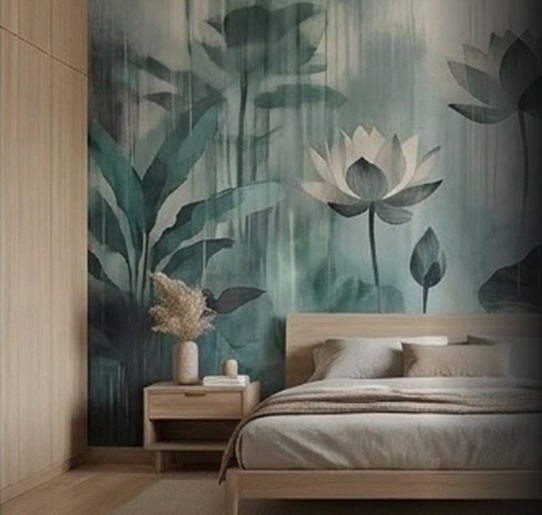
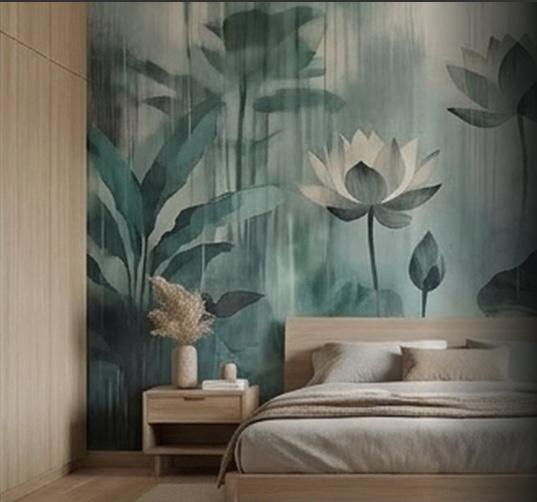
fix(collection): update plate 211 with user screenshot and delete plates 212 to 215

diff --git a/collection.html b/collection.html
@@ -6,17 +6,17 @@
   <title>The Collection — Wall Jewels Wallpaper World · Chennai, Since 1978</title>
   <!-- Favicon & Brand Icons (Embedded Data URI + Multi-Format Fallbacks) -->
[1 lines of base64/hex data omitted]
-  <link rel="icon" type="image/png" sizes="32x32" href="favicon-32x32.png?v=v1787911749753">
-  <link rel="icon" type="image/png" sizes="16x16" href="favicon-16x16.png?v=v1787911749753">
-  <link rel="shortcut icon" type="image/x-icon" href="favicon.ico?v=v1787911749753">
-  <link rel="apple-touch-icon" sizes="180x180" href="apple-touch-icon.png?v=v1787911749753">
-  <link rel="manifest" href="site.webmanifest?v=v1787911749753">
-  <meta name="description" content="Browse the Wall Jewels collections — Kala Parampara and Kala Rasa. 226 master plates of authentic heritage, botanical, abstract and world designs, printable to your wall's exact measure.">
+  <link rel="icon" type="image/png" sizes="32x32" href="favicon-32x32.png?v=v1787912206296">
+  <link rel="icon" type="image/png" sizes="16x16" href="favicon-16x16.png?v=v1787912206296">
+  <link rel="shortcut icon" type="image/x-icon" href="favicon.ico?v=v1787912206296">
+  <link rel="apple-touch-icon" sizes="180x180" href="apple-touch-icon.png?v=v1787912206296">
+  <link rel="manifest" href="site.webmanifest?v=v1787912206296">
+  <meta name="description" content="Browse the Wall Jewels collections — Kala Parampara and Kala Rasa. 222 master plates of authentic heritage, botanical, abstract and world designs, printable to your wall's exact measure.">
   <link rel="canonical" href="https://www.walljewels.in/collection.html">
   <meta name="theme-color" content="#0b0d11">
   <link rel="preload" href="assets/fonts/marcellus-latin.woff2" as="font" type="font/woff2" crossorigin>
   <link rel="preload" href="assets/fonts/jost-latin.woff2" as="font" type="font/woff2" crossorigin>
-  <link rel="stylesheet" href="assets/css/styles.css?v=v1787911749753">
+  <link rel="stylesheet" href="assets/css/styles.css?v=v1787912206296">
   <style id="coll-exact-styles">
     body.page-collection {
       --frame: 0px !important;
@@ -207,7 +207,7 @@
       </button>
     </div>
     <div class="drawer__nav">
-      <a href="collection.html">Collection <span class="num">226 plates</span></a>
+      <a href="collection.html">Collection <span class="num">222 plates</span></a>
       <a href="index.html#visualiser">Custom Printing <span class="num">Your wall</span></a>
       <a href="index.html#record">Our Work <span class="num">Since 1978</span></a>
       <a href="index.html#why">The House</a>
@@ -225,7 +225,7 @@
       <div class="coll-hero__content">
         <div class="headgroup">
           <h1 class="d2">The collection</h1>
-          <p class="lead">226 master plates from the Wall Jewels volumes — every one recomposed, recoloured
+          <p class="lead">222 master plates from the Wall Jewels volumes — every one recomposed, recoloured
             and printed to your wall's exact measure. No prices here by design: a wall deserves a conversation,
             and the conversation is free.</p>
         </div>
@@ -239,7 +239,7 @@
           <button class="fchip" type="button" data-filter="v:kala-parampara" aria-pressed="false"><span class="mark"></span>Kala Parampara</button>
           <button class="fchip" type="button" data-filter="v:kala-rasa" aria-pressed="false"><span class="mark"></span>Kala Rasa</button>
         </div>
-        <span class="coll-count" data-coll-count>226 designs</span>
+        <span class="coll-count" data-coll-count>222 designs</span>
       </div>
       <div class="coll-filters__row coll-filters__row--all">
         <button class="fchip" type="button" data-filter="c:heritage" aria-pressed="false"><span class="mark"></span>Sanatan & Heritage</button>
@@ -5110,98 +5110,6 @@
               </div>
             </div>
           </article>
-          <article class="plate" id="kr-plate-171" data-slug="kr-plate-171" data-vol="Kala Rasa" data-code="WJWP-MOD-012" data-sub="Kala Rasa · Painterly Contemporary" data-desc="Dining Rooms, Lounges A richly layered, painterly masterpiece capturing the intensity of Southern offeringabold, texturalstatementwall withimmensedepth">
-            <div class="plate__media">
-              <img src="assets/img/collection/kala-rasa/kr-plate-171.jpg" alt="Monsoon Bloom The Drenched Canopy — WJWP-MOD-012" loading="lazy">
-              
-            </div>
-            <div class="plate__body">
-              <p class="plate__vol">Kala Rasa · WJWP-MOD-012</p>
-              <h3 class="plate__name">Monsoon Bloom The Drenched Canopy</h3>
-              <p class="plate__sub" style="font-size:0.82rem; color:var(--c-gold,#c89d5c); margin-top:-2px; margin-bottom:6px; font-weight:500;">Kala Rasa · Painterly Contemporary</p>
-              <p class="plate__blurb">Dining Rooms, Lounges A richly layered, painterly masterpiece capturing the intensity of Southern offeringabold, texturalstatementwall withimmensedepth</p>
-              <div class="plate__row">
-                <a class="plate__view" href="https://wa.me/919677042903?text=Namaste%20Wall%20Jewels%20%E2%80%94%20I'd%20like%20to%20enquire%20about%20%22Monsoon%20Bloom%20The%20Drenched%20Canopy%22%20(WJWP-MOD-012)." rel="noopener">Enquire</a>
-                <span style="display:flex; gap:2px">
-                  <button class="wish" type="button" data-slug="kr-plate-171" aria-label="Mark Monsoon Bloom The Drenched Canopy on your wishlist" aria-pressed="false">
-                    <svg viewBox="0 0 22 22" aria-hidden="true"><circle class="ring" cx="11" cy="11" r="7"/><circle class="core" cx="11" cy="11" r="3"/></svg>
-                  </button>
-                  <button class="wish" type="button" data-add-basket="kr-plate-171" aria-label="Add Monsoon Bloom The Drenched Canopy to your enquiry docket">
-                    <svg viewBox="0 0 22 22" fill="none" aria-hidden="true"><path d="M11 4 V18 M4 11 H18" stroke="currentColor" stroke-width="1.5" stroke-linecap="round"/></svg>
-                  </button>
-                </span>
-              </div>
-            </div>
-          </article>
-          <article class="plate" id="kr-plate-172" data-slug="kr-plate-172" data-vol="Kala Rasa" data-code="WJWP-MOD-013" data-sub="Kala Rasa · Modern Cobur Field" data-desc="Double-Height Walls, Grand Entrances An abstract colburfield composition inspired bythe intense warmthand warmaspace, wrappingtheroom inanendlesssunset AVA LBLE">
-            <div class="plate__media">
-              <img src="assets/img/collection/kala-rasa/kr-plate-172.jpg" alt="Southern Sun Radiance Abstracted — WJWP-MOD-013" loading="lazy">
-              
-            </div>
-            <div class="plate__body">
-              <p class="plate__vol">Kala Rasa · WJWP-MOD-013</p>
-              <h3 class="plate__name">Southern Sun Radiance Abstracted</h3>
-              <p class="plate__sub" style="font-size:0.82rem; color:var(--c-gold,#c89d5c); margin-top:-2px; margin-bottom:6px; font-weight:500;">Kala Rasa · Modern Cobur Field</p>
-              <p class="plate__blurb">Double-Height Walls, Grand Entrances An abstract colburfield composition inspired bythe intense warmthand warmaspace, wrappingtheroom inanendlesssunset AVA LBLE</p>
-              <div class="plate__row">
-                <a class="plate__view" href="https://wa.me/919677042903?text=Namaste%20Wall%20Jewels%20%E2%80%94%20I'd%20like%20to%20enquire%20about%20%22Southern%20Sun%20Radiance%20Abstracted%22%20(WJWP-MOD-013)." rel="noopener">Enquire</a>
-                <span style="display:flex; gap:2px">
-                  <button class="wish" type="button" data-slug="kr-plate-172" aria-label="Mark Southern Sun Radiance Abstracted on your wishlist" aria-pressed="false">
-                    <svg viewBox="0 0 22 22" aria-hidden="true"><circle class="ring" cx="11" cy="11" r="7"/><circle class="core" cx="11" cy="11" r="3"/></svg>
-                  </button>
-                  <button class="wish" type="button" data-add-basket="kr-plate-172" aria-label="Add Southern Sun Radiance Abstracted to your enquiry docket">
-                    <svg viewBox="0 0 22 22" fill="none" aria-hidden="true"><path d="M11 4 V18 M4 11 H18" stroke="currentColor" stroke-width="1.5" stroke-linecap="round"/></svg>
-                  </button>
-                </span>
-              </div>
-            </div>
-          </article>
-          <article class="plate" id="kr-plate-173" data-slug="kr-plate-173" data-vol="Kala Rasa" data-code="WJWP-MOD-014" data-sub="Kala Rasa · Minimal Architectural Art" data-desc="Libraries, Executive Suites Minimalist forms inspired by heavy sandstone architecture caught in harsh and stark, brightgeometrytocreatestructural illusions.">
-            <div class="plate__media">
-              <img src="assets/img/collection/kala-rasa/kr-plate-173.jpg" alt="Sun and Stone Carved by Light — WJWP-MOD-014" loading="lazy">
-              
-            </div>
-            <div class="plate__body">
-              <p class="plate__vol">Kala Rasa · WJWP-MOD-014</p>
-              <h3 class="plate__name">Sun and Stone Carved by Light</h3>
-              <p class="plate__sub" style="font-size:0.82rem; color:var(--c-gold,#c89d5c); margin-top:-2px; margin-bottom:6px; font-weight:500;">Kala Rasa · Minimal Architectural Art</p>
-              <p class="plate__blurb">Libraries, Executive Suites Minimalist forms inspired by heavy sandstone architecture caught in harsh and stark, brightgeometrytocreatestructural illusions.</p>
-              <div class="plate__row">
-                <a class="plate__view" href="https://wa.me/919677042903?text=Namaste%20Wall%20Jewels%20%E2%80%94%20I'd%20like%20to%20enquire%20about%20%22Sun%20and%20Stone%20Carved%20by%20Light%22%20(WJWP-MOD-014)." rel="noopener">Enquire</a>
-                <span style="display:flex; gap:2px">
-                  <button class="wish" type="button" data-slug="kr-plate-173" aria-label="Mark Sun and Stone Carved by Light on your wishlist" aria-pressed="false">
-                    <svg viewBox="0 0 22 22" aria-hidden="true"><circle class="ring" cx="11" cy="11" r="7"/><circle class="core" cx="11" cy="11" r="3"/></svg>
-                  </button>
-                  <button class="wish" type="button" data-add-basket="kr-plate-173" aria-label="Add Sun and Stone Carved by Light to your enquiry docket">
-                    <svg viewBox="0 0 22 22" fill="none" aria-hidden="true"><path d="M11 4 V18 M4 11 H18" stroke="currentColor" stroke-width="1.5" stroke-linecap="round"/></svg>
-                  </button>
-                </span>
-              </div>
-            </div>
-          </article>
-          <article class="plate" id="kr-plate-174" data-slug="kr-plate-174" data-vol="Kala Rasa" data-code="WJWP-MOD-015" data-sub="Kala Rasa · Contemporary Botanical" data-desc="Coastal Homes, Modern Lounges The iconic coconut palm is radically stylised into an elegant, flowing graphic form Stripped of literal realism, thefronds become sweeping, rhythmic vectors thatguide theeye upward, elevatingthe ceiling height">
-            <div class="plate__media">
-              <img src="assets/img/collection/kala-rasa/kr-plate-174.jpg" alt="Coconut Palm Symphony Frondsin Flux — WJWP-MOD-015" loading="lazy">
-              
-            </div>
-            <div class="plate__body">
-              <p class="plate__vol">Kala Rasa · WJWP-MOD-015</p>
-              <h3 class="plate__name">Coconut Palm Symphony Frondsin Flux</h3>
-              <p class="plate__sub" style="font-size:0.82rem; color:var(--c-gold,#c89d5c); margin-top:-2px; margin-bottom:6px; font-weight:500;">Kala Rasa · Contemporary Botanical</p>
-              <p class="plate__blurb">Coastal Homes, Modern Lounges The iconic coconut palm is radically stylised into an elegant, flowing graphic form Stripped of literal realism, thefronds become sweeping, rhythmic vectors thatguide theeye upward, elevatingthe ceiling height</p>
-              <div class="plate__row">
-                <a class="plate__view" href="https://wa.me/919677042903?text=Namaste%20Wall%20Jewels%20%E2%80%94%20I'd%20like%20to%20enquire%20about%20%22Coconut%20Palm%20Symphony%20Frondsin%20Flux%22%20(WJWP-MOD-015)." rel="noopener">Enquire</a>
-                <span style="display:flex; gap:2px">
-                  <button class="wish" type="button" data-slug="kr-plate-174" aria-label="Mark Coconut Palm Symphony Frondsin Flux on your wishlist" aria-pressed="false">
-                    <svg viewBox="0 0 22 22" aria-hidden="true"><circle class="ring" cx="11" cy="11" r="7"/><circle class="core" cx="11" cy="11" r="3"/></svg>
-                  </button>
-                  <button class="wish" type="button" data-add-basket="kr-plate-174" aria-label="Add Coconut Palm Symphony Frondsin Flux to your enquiry docket">
-                    <svg viewBox="0 0 22 22" fill="none" aria-hidden="true"><path d="M11 4 V18 M4 11 H18" stroke="currentColor" stroke-width="1.5" stroke-linecap="round"/></svg>
-                  </button>
-                </span>
-              </div>
-            </div>
-          </article>
           <article class="plate" id="kr-plate-175" data-slug="kr-plate-175" data-vol="Kala Rasa" data-code="WJWP-MOD-016" data-sub="Kala Rasa · Modern Tropical Abstract" data-desc="Hospitality Spaces, Night Lounges ove rlapof tropical nature on brutalist architecture. This moody. sophisticated patternadds immediateedgeand luxuryto low-light environments. CUS">
             <div class="plate__media">
               <img src="assets/img/collection/kala-rasa/kr-plate-175.jpg" alt="Palm Shadows The Canopy Overlay — WJWP-MOD-016" loading="lazy">
@@ -5518,10 +5426,10 @@
     </div>
   </div>
 
-  <script src="assets/js/vendor/lenis.min.js?v=v1787911749753" defer></script>
-  <script src="assets/js/data.js?v=v1787911749753" defer></script>
-  <script src="assets/js/kolam.js?v=v1787911749753" defer></script>
-  <script src="assets/js/webgl-bg.js?v=v1787911749753" defer></script>
-  <script src="assets/js/app.js?v=v1787911749753" defer></script>
+  <script src="assets/js/vendor/lenis.min.js?v=v1787912206296" defer></script>
+  <script src="assets/js/data.js?v=v1787912206296" defer></script>
+  <script src="assets/js/kolam.js?v=v1787912206296" defer></script>
+  <script src="assets/js/webgl-bg.js?v=v1787912206296" defer></script>
+  <script src="assets/js/app.js?v=v1787912206296" defer></script>
 </body>
 </html>

diff --git a/assets/js/data.js b/assets/js/data.js
@@ -2973,64 +2973,7 @@ const COLLECTION = [
     "img": "assets/img/collection/kala-rasa/kr-plate-170.jpg",
     "sp": "bedroom",
     "cat": "abstract"
-  },
-  {
-    "id": "kr-171",
-    "v": "kala-rasa",
-    "n": "Monsoon Bloom The Drenched Canopy",
-    "no": "WJWP-MOD-012",
-    "sub": "Kala Rasa · Painterly Contemporary",
-    "b": "Dining Rooms, Lounges A richly layered, painterly masterpiece capturing the intensity of Southern offeringabold, texturalstatementwall withimmensedepth",
-    "style": "Painterly Contemporary",
-    "palette": "Olive,Teal,DeepBurgundy",
-    "ideal": "Dining Rooms, Lounges",
-    "img": "assets/img/collection/kala-rasa/kr-plate-171.jpg",
-    "sp": "dining",
-    "cat": "abstract"
-  },
-  {
-    "id": "kr-172",
-    "v": "kala-rasa",
-    "n": "Southern Sun Radiance Abstracted",
-    "no": "WJWP-MOD-013",
-    "sub": "Kala Rasa · Modern Cobur Field",
-    "b": "Double-Height Walls, Grand Entrances An abstract colburfield composition inspired bythe intense warmthand warmaspace, wrappingtheroom inanendlesssunset AVA LBLE",
-    "style": "Modern Cobur Field",
-    "palette": "Mustard,Rust,Terracotta,lvory",
-    "ideal": "Double-Height Walls, Grand Entrances",
-    "img": "assets/img/collection/kala-rasa/kr-plate-172.jpg",
-    "sp": "living",
-    "cat": "abstract"
-  },
-  {
-    "id": "kr-173",
-    "v": "kala-rasa",
-    "n": "Sun and Stone Carved by Light",
-    "no": "WJWP-MOD-014",
-    "sub": "Kala Rasa · Minimal Architectural Art",
-    "b": "Libraries, Executive Suites Minimalist forms inspired by heavy sandstone architecture caught in harsh and stark, brightgeometrytocreatestructural illusions.",
-    "style": "Minimal Architectural Art",
-    "palette": "Sandstone,Mustard,DeepCharcoal",
-    "ideal": "Libraries, Executive Suites",
-    "img": "assets/img/collection/kala-rasa/kr-plate-173.jpg",
-    "sp": "office",
-    "cat": "abstract"
-  },
-  {
-    "id": "kr-174",
-    "v": "kala-rasa",
-    "n": "Coconut Palm Symphony Frondsin Flux",
-    "no": "WJWP-MOD-015",
-    "sub": "Kala Rasa · Contemporary Botanical",
-    "b": "Coastal Homes, Modern Lounges The iconic coconut palm is radically stylised into an elegant, flowing graphic form Stripped of literal realism, thefronds become sweeping, rhythmic vectors thatguide theeye upward, elevatingthe ceiling height",
-    "style": "Contemporary Botanical",
-    "palette": "Olive,Sage,Sandstone",
-    "ideal": "Coastal Homes, Modern Lounges",
-    "img": "assets/img/collection/kala-rasa/kr-plate-174.jpg",
-    "sp": "living",
-    "cat": "abstract"
-  },
-  {
+  },  {
     "id": "kr-175",
     "v": "kala-rasa",
     "n": "Palm Shadows The Canopy Overlay",

diff --git a/tools/replace_and_delete_batch22.py b/tools/replace_and_delete_batch22.py
@@ -1,0 +1,36 @@
+import os, re
+from PIL import Image
+
+base_upload_dir = r"C:\Users\Chintan Kamani\.gemini\antigravity-ide\brain\99a8f198-e31a-4099-b444-928a9a1ef591\.user_uploaded"
+
+# Replace 211
+src_full = os.path.join(base_upload_dir, "media_1787911544538.png")
+dst_path = "assets/img/collection/kala-rasa/kr-plate-170.jpg"
+im = Image.open(src_full).convert('RGB')
+os.makedirs(os.path.dirname(dst_path), exist_ok=True)
+im.save(dst_path, 'JPEG', quality=95)
+print(f"Plate #211 -> Replaced {dst_path} with media_1787911544538.png (Size: {im.size})")
+
+# Delete 212 to 215 from data.js
+to_delete_ids = ['kr-171', 'kr-172', 'kr-173', 'kr-174']
+
+with open('assets/js/data.js', 'r', encoding='utf-8') as f:
+    content = f.read()
+
+for did in to_delete_ids:
+    pat = re.compile(rf'\s*\{{\s*"id":\s*"{did}"[^}}]+?\}},\n?')
+    content, count = pat.subn('', content)
+    print(f"Deleted {did} from data.js: {count} occurrence(s)")
+
+with open('assets/js/data.js', 'w', encoding='utf-8') as f:
+    f.write(content)
+
+# Delete image files
+for did in to_delete_ids:
+    num_str = did.replace('kr-', '')
+    img_path = f"assets/img/collection/kala-rasa/kr-plate-{num_str}.jpg"
+    if os.path.exists(img_path):
+        os.remove(img_path)
+        print(f"Removed image file {img_path}")
+
+print("\nBatch 22 replacement and deletion complete!")
